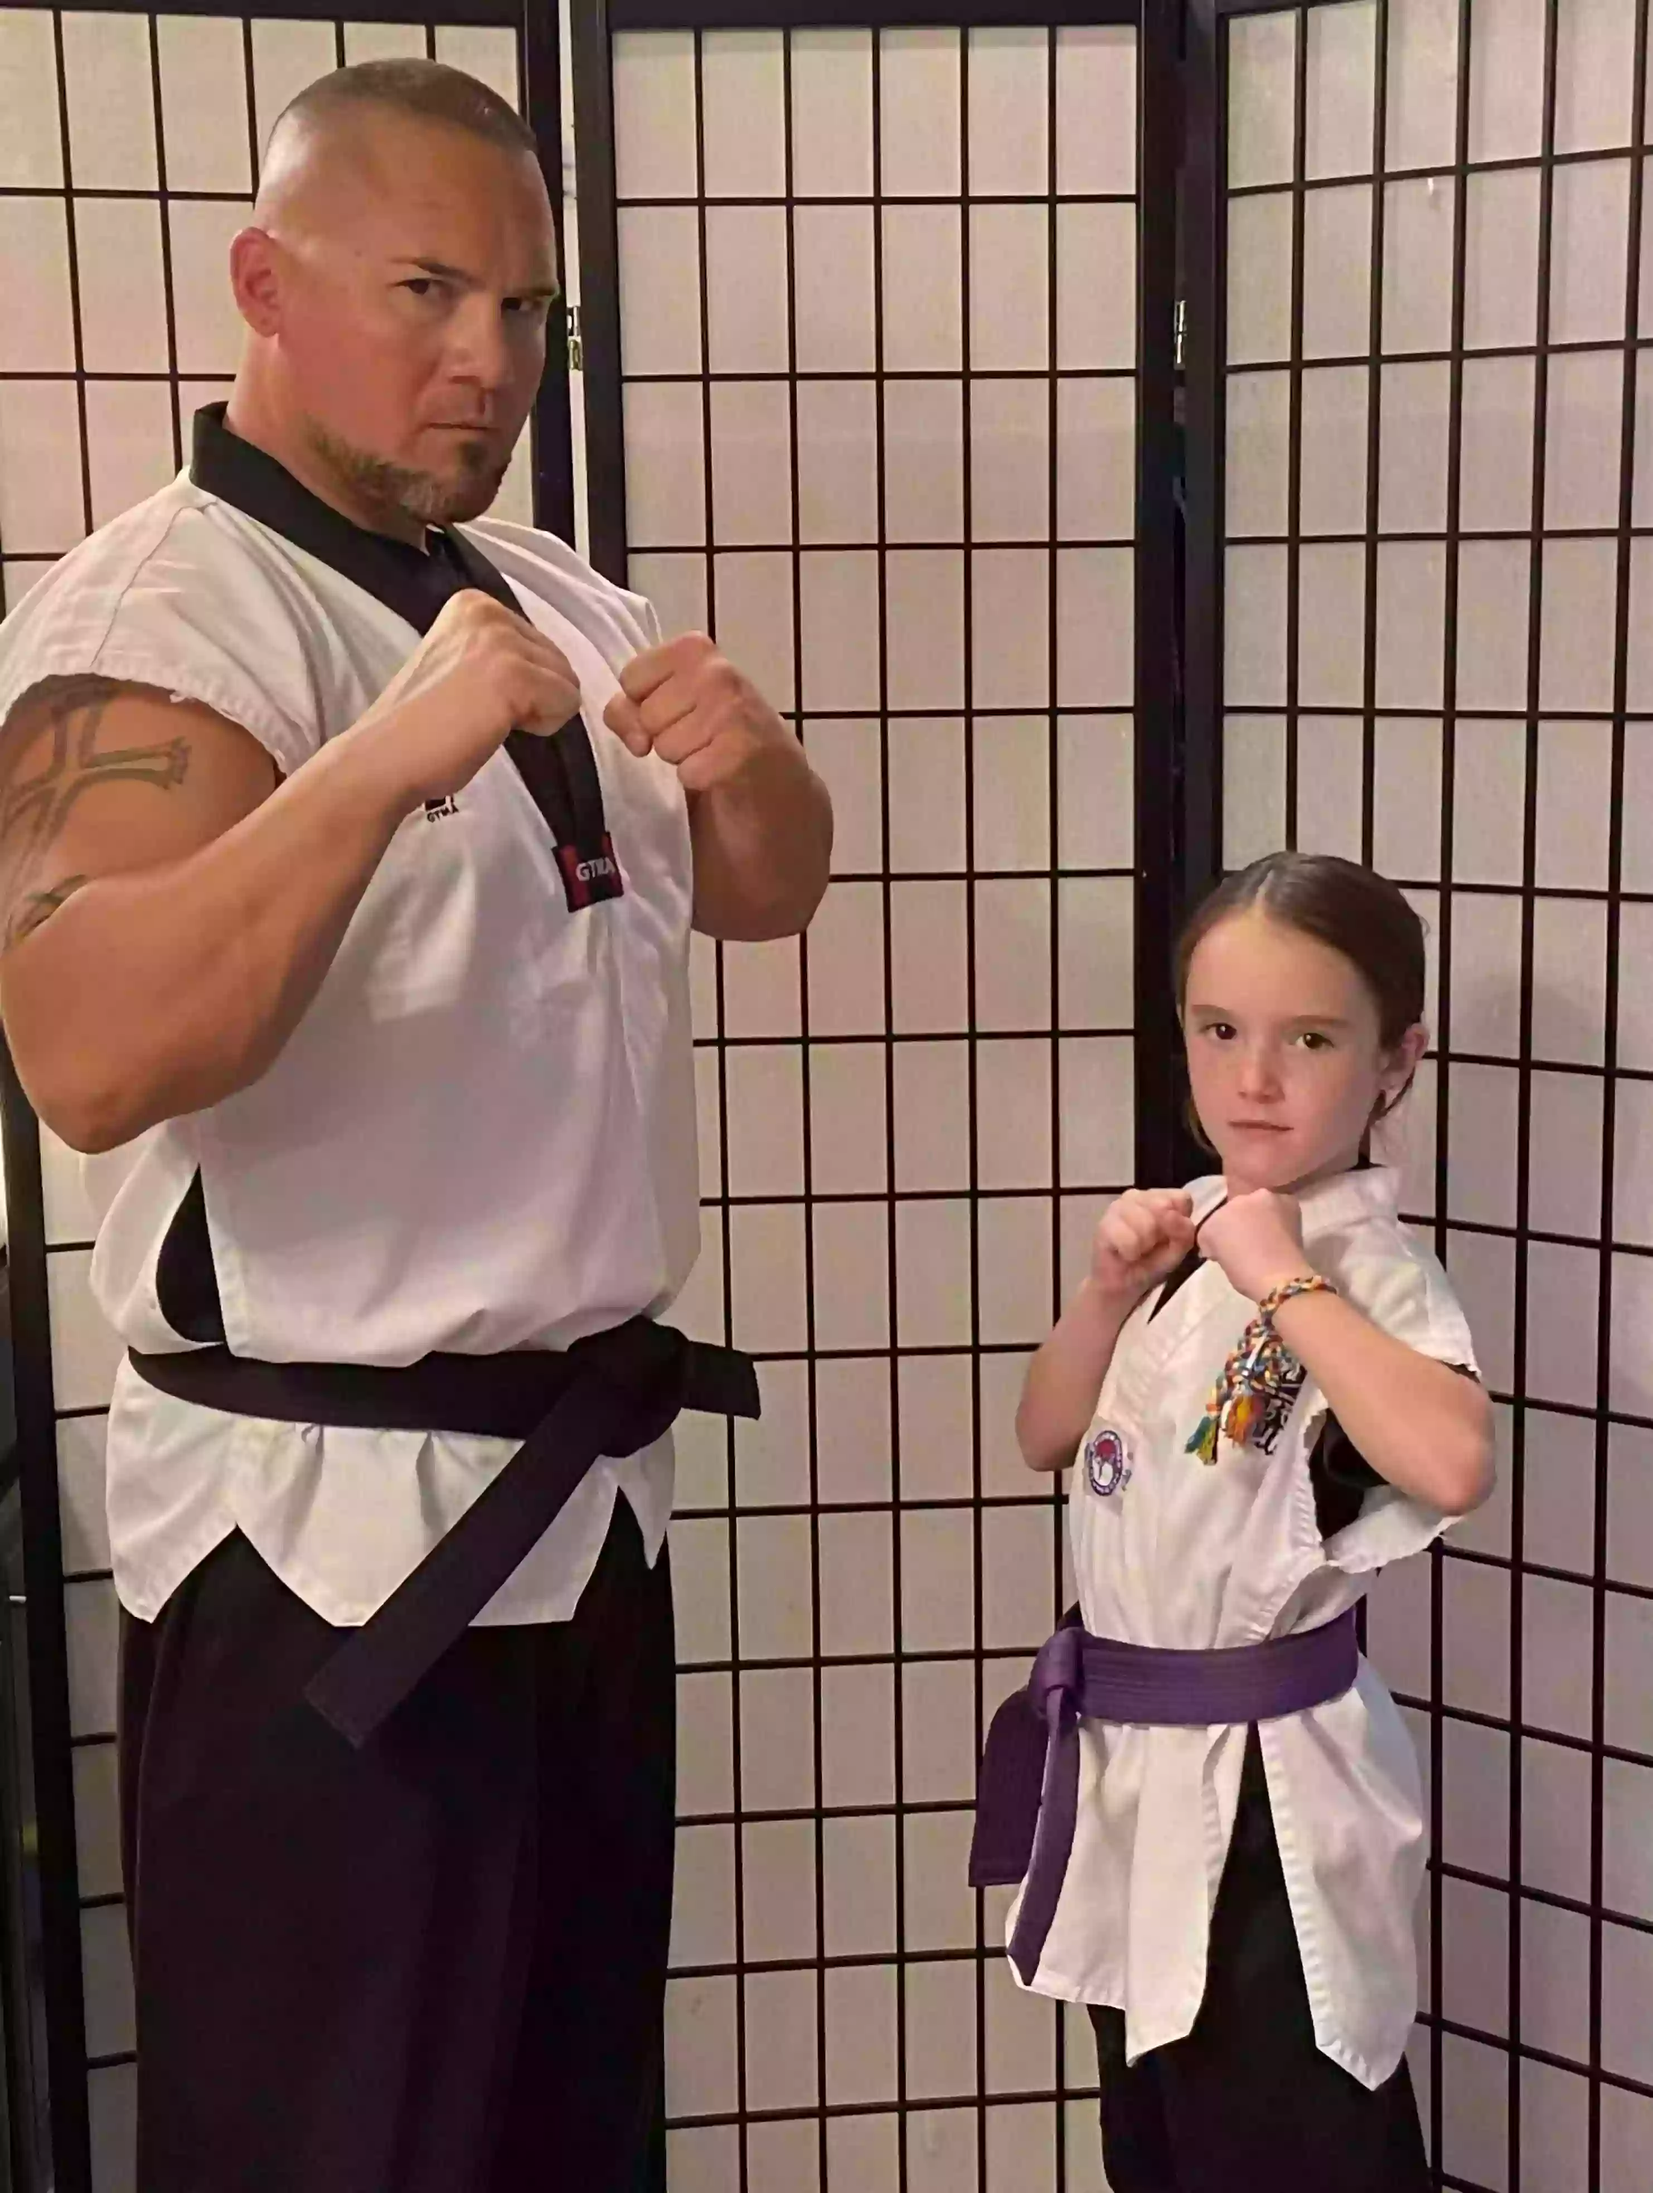
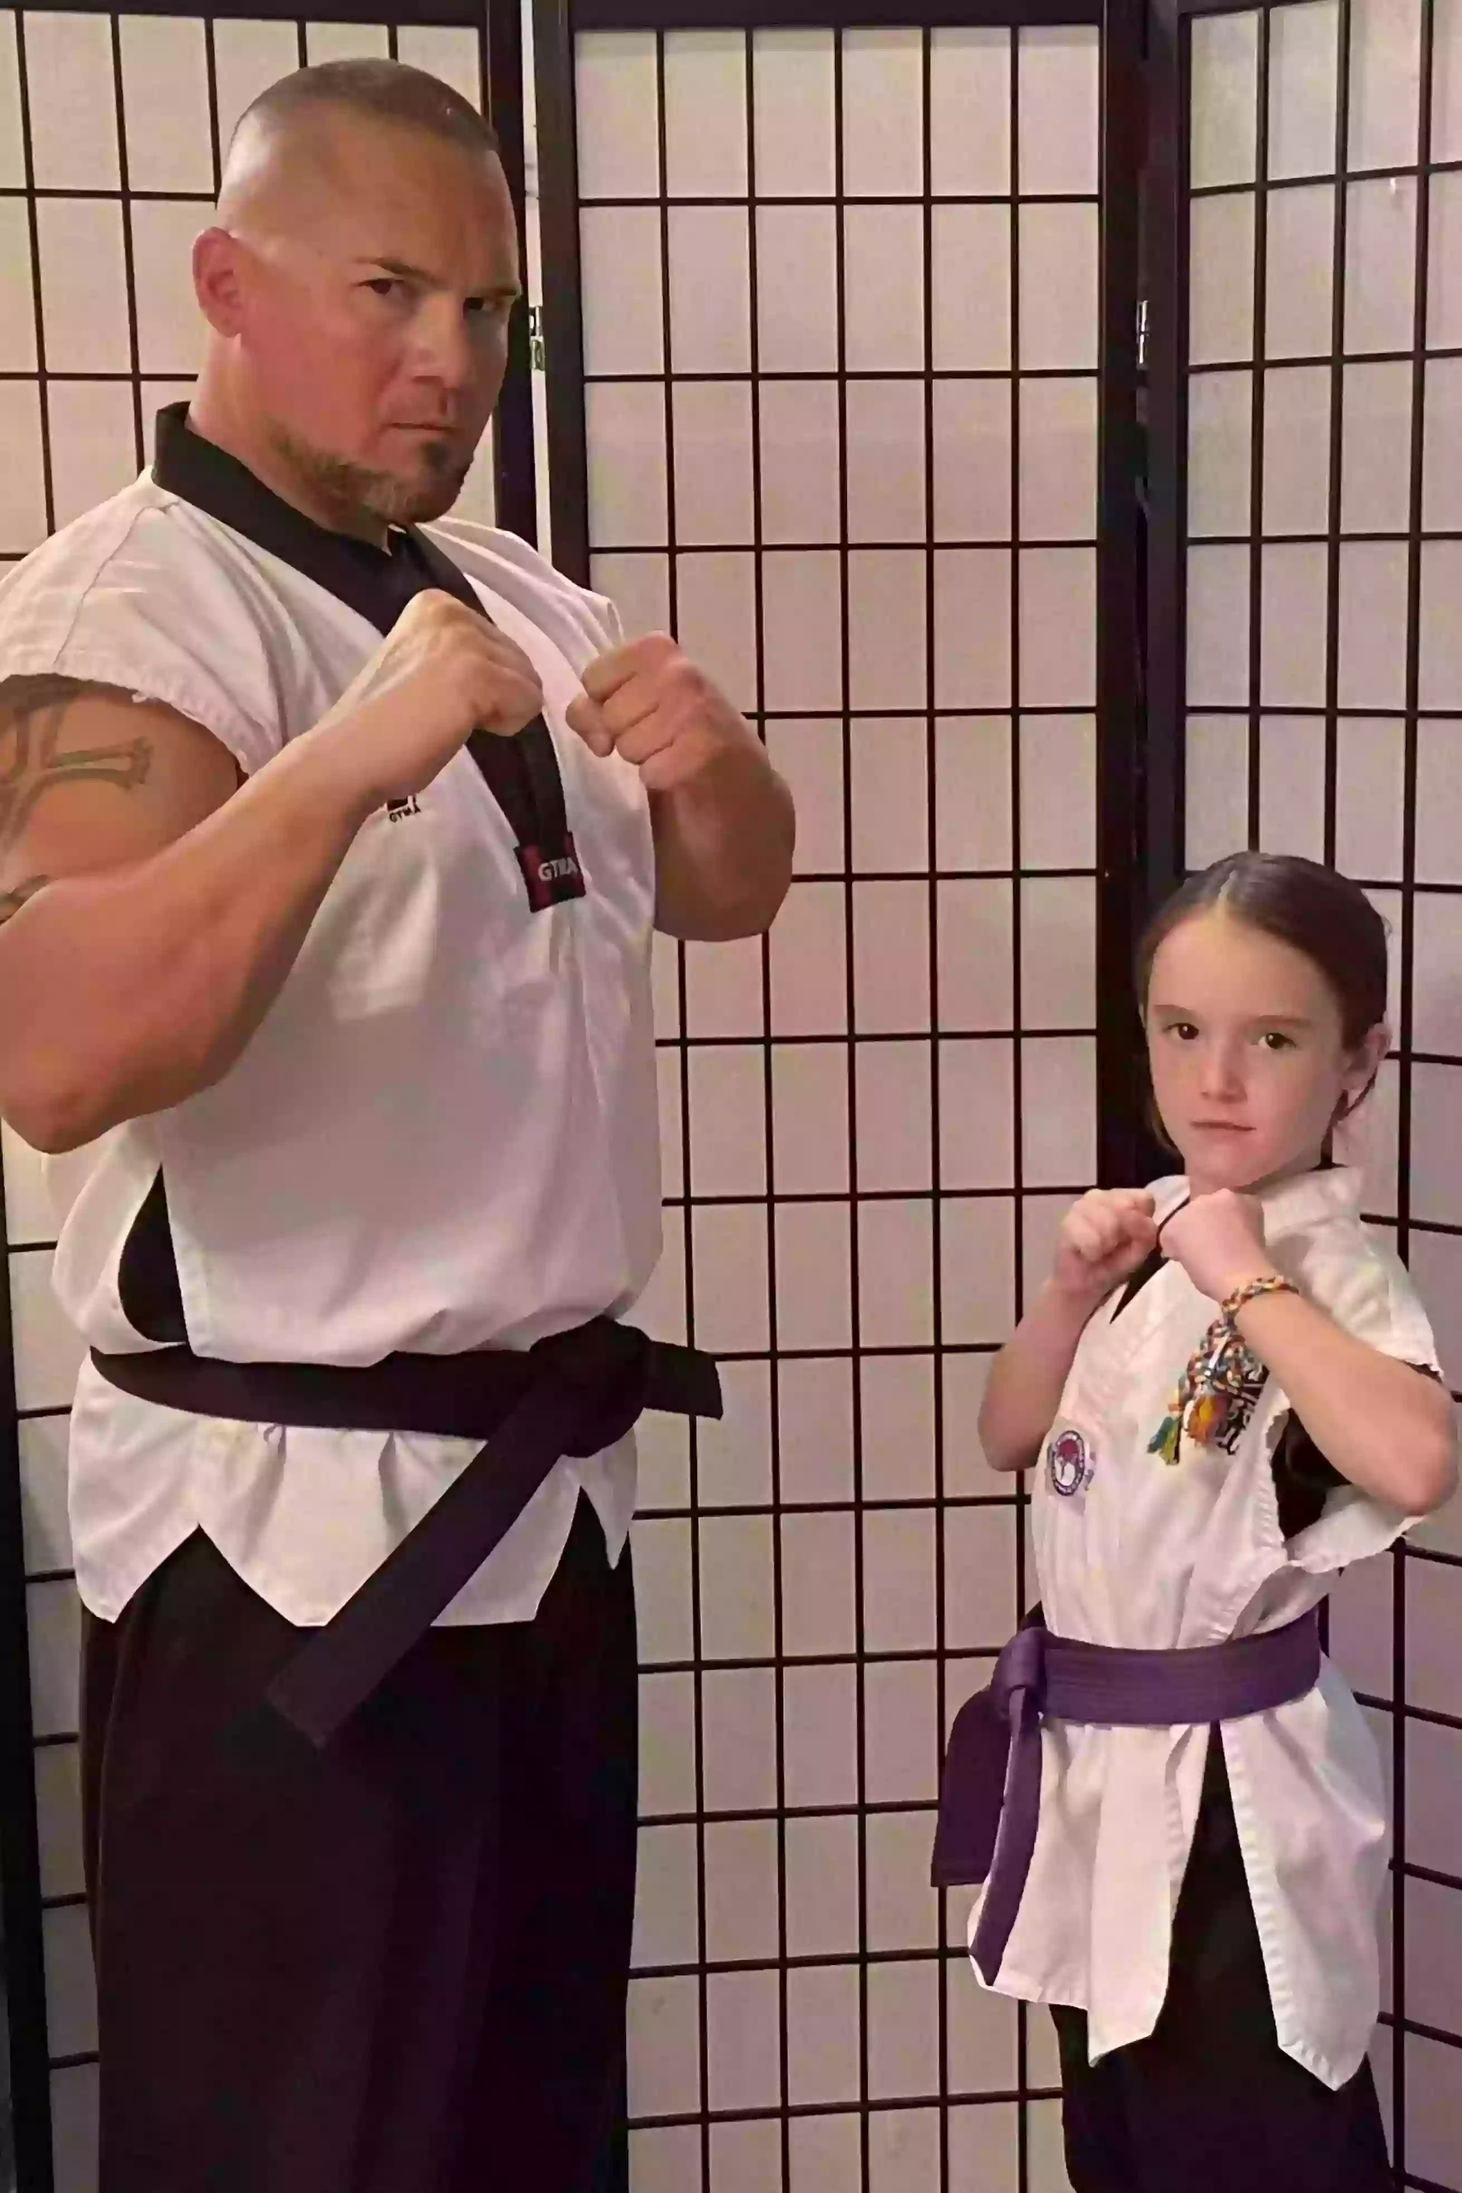
fixing a pic

diff --git a/photos.html b/photos.html
@@ -51,7 +51,7 @@
         <img src="assets/images/testing4.webp" class="carousel-item" alt = "Group">
         <img src="assets/images/Wally.png" class="carousel-item" alt = "Wally">
         <img src="assets/images/yellowBelts.webp" class="carousel-item" alt = "Yellow Belts">
-        <img src="assets/images/paige.webp" class="carousel-item" alt = "Paige">
+        <img src="assets/images/paige.png" class="carousel-item" alt = "Paige">
         <img src="assets/images/Janeen1.webp" class="carousel-item" alt = "Janeen">
         <img src="assets/images/JoeLittleHope.webp" alt="Joe and little Hope">
 
